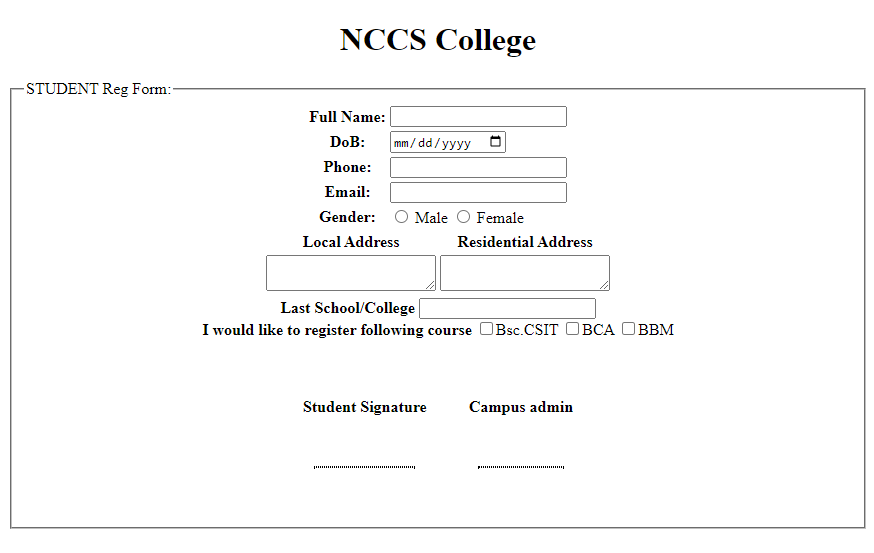
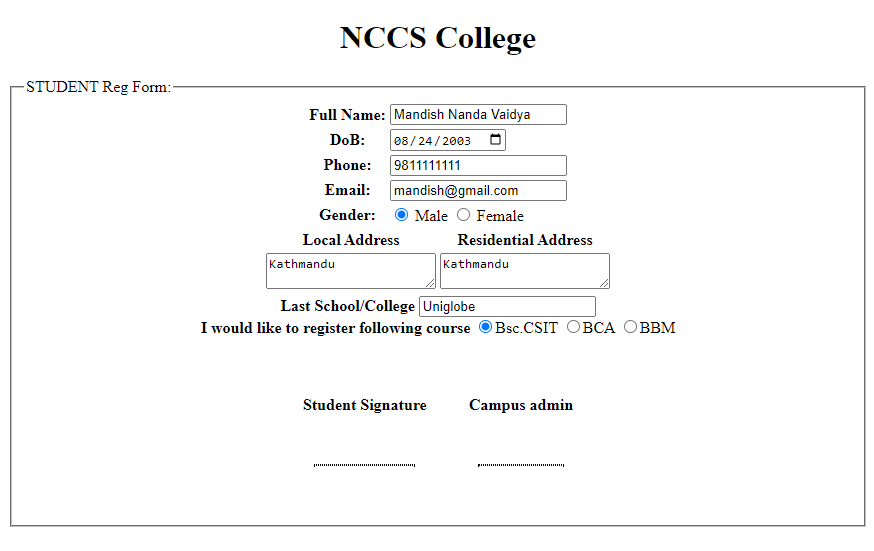
Add files via upload

diff --git a/Lab8.html b/Lab8.html
@@ -49,9 +49,9 @@
 
             <b>Last School/College </b><input type="text"><br>
             <b>I would like to register following course </b>
-            <input type="checkbox" name="course">Bsc.CSIT
-            <input type="checkbox" name="course">BCA
-            <input type="checkbox" name="course">BBM
+            <input type="radio" name="course">Bsc.CSIT
+            <input type="radio" name="course">BCA
+            <input type="radio" name="course">BBM
             <br>
             <br>
 
